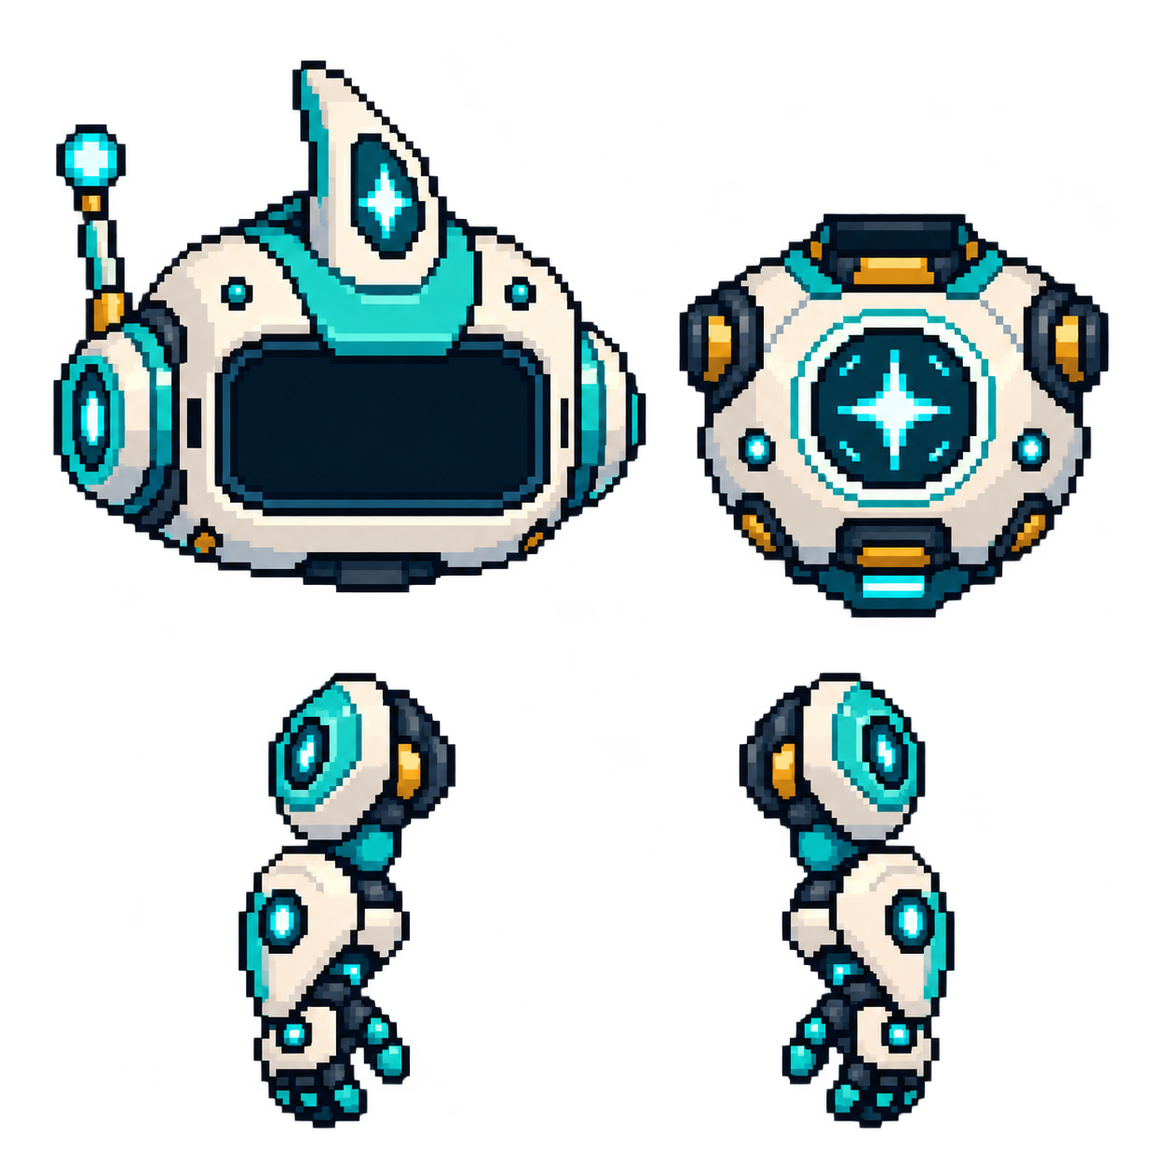
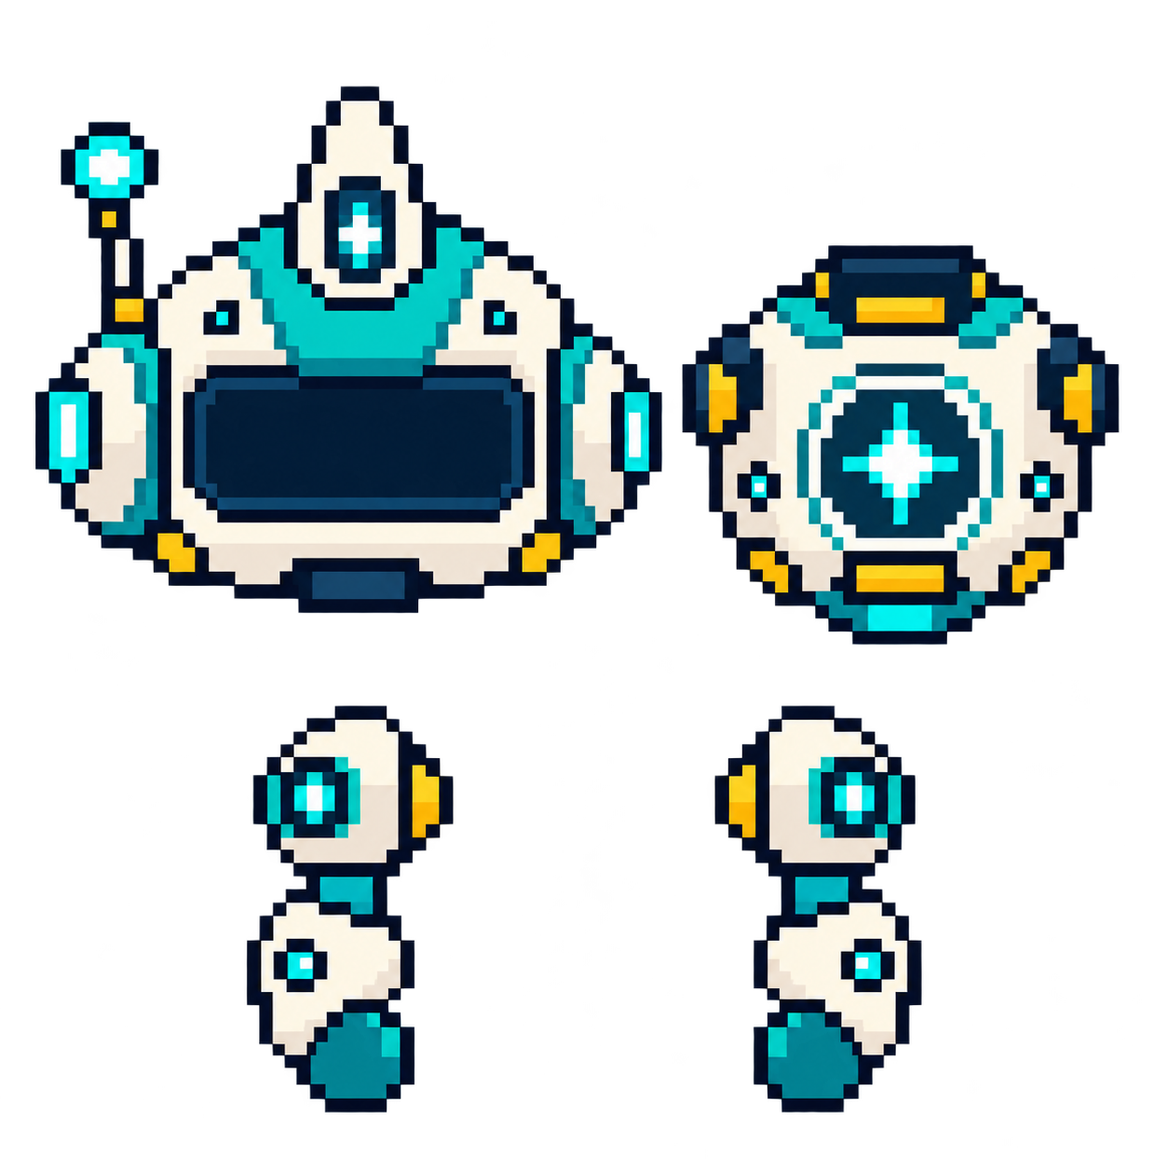
Simplify and enlarge the terminal scout for v1.12.34
Use a low-resolution, flat-palette front-facing scout with solid mitten hands. Enlarge his head and tuck the lower chest and resting arms behind the terminal; raise the hands during expressive poses and turn sideways only in selected animations.

Validated 153 unit tests, release/build checks, full Chromium and WebKit browser/PWA suites, nine camera layouts, reduced motion, terminal events and in-game sleeping/resting/raised-hand screenshots.

diff --git a/src/ui/terminal-companion.js b/src/ui/terminal-companion.js
@@ -1,19 +1,30 @@
 import {viewport,gameRect} from '../core/viewport.js';
 import {cameraAreas} from './camera-layout.js';
-import {createCompanionBrain,companionPlacement} from './companion-state.js';
+import {createCompanionBrain,companionPlacement,companionMotion} from './companion-state.js';
 export {reactionForMessage} from './companion-state.js';
 
-// Measured alpha bounds of the generated atlas, in its native 1254px square.
-const regions={head:[57,65,637,571],chest:[729,229,462,434],left:[256,722,233,490],right:[793,722,232,490]};
+// Measured alpha bounds of the simplified, front-facing 1254px atlas.
+const regions={head:[38,92,673,567],chest:[732,263,470,429],left:[265,757,222,438],right:[767,757,223,438]};
+const palette=['06131e','173440','355a65','71949b','b6c5bb','f4f2dc','fff8e7','12525c','187c81','26b9b1','79eee0','d2fff0','886533','e2b455'].map(hex=>[0,2,4].map(i=>parseInt(hex.slice(i,i+2),16)));
 export function createTerminalCompanion({state,settings,$}){
   const stage=$('terminalCompanion'),canvas=$('companionCanvas'),ctx=canvas.getContext('2d'),brain=createCompanionBrain(),parts={};
-  let ready=false,lastPaint=-Infinity,lastPlace=-Infinity,lastPose='',lastScene=state.scene;
+  const face=document.createElement('canvas');face.width=52;face.height=44;const faceContext=face.getContext('2d');
+  let ready=false,lastPaint=-Infinity,lastPlace=-Infinity,lastPose='',lastScene=state.scene,armLift=0,headTurn=0;
   const reducedMotion=matchMedia('(prefers-reduced-motion: reduce)');
   const image=new Image();image.src=new URL('../../assets/terminal-companion.png',import.meta.url).href;
   image.onload=()=>{
     for(const [name,[x,y,w,h]]of Object.entries(regions)){
-      const part=document.createElement('canvas');part.width=name==='head'?96:name==='chest'?50:20;part.height=Math.round(part.width*h/w);
-      const c=part.getContext('2d');c.imageSmoothingEnabled=false;c.drawImage(image,x,y,w,h,0,0,part.width,part.height);parts[name]=part;
+      const part=document.createElement('canvas');part.width=name==='head'?52:name==='chest'?26:10;part.height=Math.round(part.width*h/w);
+      const c=part.getContext('2d');c.imageSmoothingEnabled=false;c.drawImage(image,x,y,w,h,0,0,part.width,part.height);
+      // Flatten the generated artwork to a small console palette once, on load.
+      const pixels=c.getImageData(0,0,part.width,part.height),data=pixels.data;
+      for(let i=0;i<data.length;i+=4){
+        if(data[i+3]<128){data[i+3]=0;continue;}
+        let best=palette[0],distance=Infinity;
+        for(const color of palette){const d=color.reduce((sum,v,j)=>sum+(v-data[i+j])**2,0);if(d<distance){best=color;distance=d;}}
+        data.set(best,i);data[i+3]=255;
+      }
+      c.putImageData(pixels,0,0);parts[name]=part;
     }
     ready=true;stage.dataset.ready='true';update(performance.now());
   };
@@ -27,41 +38,39 @@ export function createTerminalCompanion({state,settings,$}){
   }
   const observer=new ResizeObserver(place);for(const id of ['targetCard','terminalPocket','gameViewport'])observer.observe($(id));
   function draw(pose,now){
-    ctx.clearRect(0,0,120,132);ctx.imageSmoothingEnabled=false;
-    const still=settings.reducedMotion||reducedMotion.matches;
-    const t=still?0:now/1000,bob=still?0:Math.round(Math.sin(t*(pose==='sleep'?1.6:2.2)));
-    const wave=['wake','greet','celebrate','complete','stretch'].includes(pose),speed=pose==='celebrate'?9:4;
-    // Integer offsets keep the small pixel sprite crisp. Body and hands reveal
-    // beneath the head as the terminal rises; the closed stage clips them out.
-    ctx.drawImage(parts.chest,35,79+bob);
-    const arm=(name,x,angle)=>{ctx.save();ctx.translate(x,86+bob);ctx.rotate(angle);ctx.drawImage(parts[name],-10,0);ctx.restore();};
-    arm('left',30,wave?(still?-.2:-.3+Math.sin(t*speed)*.25):0);
-    arm('right',90,wave?(still?.2:.3-Math.sin(t*speed)*.25):0);
-    const headY=bob+(pose==='sleep'?-8:pose==='input'?Math.round(Math.sin(t*5)):0);
-    ctx.drawImage(parts.head,12,headY);
-    // Visor occupies x37..89, y48..70 on the downsampled head.
-    const cyan=pose==='concern'?'#ffd27b':'#8efff4',dark='#031321';
-    const eyeY=52+headY,shift=pose==='glance'?Math.round(Math.sin(t*2)*3):pose==='scan'?Math.round(Math.sin(t*4)*2):0;
-    ctx.fillStyle=cyan;
+    ctx.clearRect(0,0,64,72);ctx.imageSmoothingEnabled=false;
+    const still=settings.reducedMotion||reducedMotion.matches,{bob,turn,lift}=companionMotion(pose,now,still),t=still?0:now/1000;
+    // Ease arm raises and occasional head turns without ever smoothing pixels.
+    const ease=still?1:1-Math.exp(-Math.max(0,Math.min(100,now-lastPaint))/120);
+    armLift+=(lift-armLift)*ease;headTurn+=(turn-headTurn)*ease;
+    const raised=Math.round(armLift),yaw=Math.round(headTurn),headY=bob+(pose==='sleep'?-10:0);
+    ctx.drawImage(parts.chest,19,40+bob);
+    const arms=()=>{ctx.drawImage(parts.left,8-Math.round(raised/4),43+bob-raised);ctx.drawImage(parts.right,46+Math.round(raised/4),43+bob-raised);};
+    if(!raised)arms();
+    // This mild yaw is reserved for scanning/travel/glances; the default is a
+    // symmetric front view. Draw the visor in the same head coordinate space.
+    const f=faceContext;f.clearRect(0,0,52,44);f.drawImage(parts.head,0,0);
+    const cyan=pose==='concern'?'#e2b455':'#79eee0',eyeY=27;f.fillStyle=cyan;
     if(pose==='sleep'||pose==='blink'){
-      for(const x of [44,70]){ctx.fillRect(x,eyeY,12,2);if(pose==='sleep')ctx.fillRect(x+2,eyeY+2,8,1);}
+      for(const x of [17,32]){f.fillRect(x,eyeY,6,1);if(pose==='sleep')f.fillRect(x+1,eyeY+1,4,1);}
     }else if(['celebrate','complete','greet'].includes(pose)){
-      for(const x of [44,70]){ctx.fillRect(x,eyeY+3,3,3);ctx.fillRect(x+3,eyeY,6,3);ctx.fillRect(x+9,eyeY+3,3,3);}
+      for(const x of [17,32]){f.fillRect(x,eyeY+1,2,2);f.fillRect(x+2,eyeY,2,1);f.fillRect(x+4,eyeY+1,2,2);}
     }else{
-      const wide=pose==='warp'||pose==='wake',h=wide?13:pose==='concern'?5:10;
-      for(const x of [46,72]){ctx.fillRect(x+shift,eyeY,8,h);ctx.fillRect(x+shift+2,eyeY-2,4,h+4);ctx.fillStyle='#e6fffb';ctx.fillRect(x+shift+2,eyeY,2,3);ctx.fillStyle=cyan;}
+      const h=pose==='warp'||pose==='wake'?7:pose==='concern'?3:5;
+      for(const x of [17,32]){f.fillRect(x+yaw,eyeY,6,h);f.fillRect(x+yaw+1,eyeY-1,4,1);}
     }
     if(pose!=='sleep'&&pose!=='blink'){
-      const mouthY=70+headY;ctx.fillStyle=cyan;
-      if(pose==='warp'){ctx.fillRect(60,mouthY-3,7,6);ctx.fillStyle=dark;ctx.fillRect(62,mouthY-1,3,2);}
-      else if(pose==='concern'){ctx.fillRect(56,mouthY,4,2);ctx.fillRect(60,mouthY-2,8,2);ctx.fillRect(68,mouthY,4,2);}
-      else if(pose==='input'||pose==='scan'){ctx.fillRect(56,mouthY,14,2+Math.round((Math.sin(t*10)+1)*1.5));}
-      else{ctx.fillRect(57,mouthY-2,3,2);ctx.fillRect(60,mouthY,8,2);ctx.fillRect(68,mouthY-2,3,2);}
+      if(pose==='warp'){f.fillRect(25,34,4,3);f.fillStyle='#06131e';f.fillRect(26,35,2,1);}
+      else if(pose==='concern'){f.fillRect(23,35,2,1);f.fillRect(25,34,4,1);f.fillRect(29,35,2,1);}
+      else if(pose==='input'||pose==='scan'){f.fillRect(23,34,8,1+Math.round((Math.sin(t*10)+1)/2));}
+      else{f.fillRect(23,33,2,1);f.fillRect(25,34,4,1);f.fillRect(29,33,2,1);}
     }
-    if(pose==='sleep'&&!still&&now%7500>5000){ctx.fillStyle='#68c2c2';ctx.fillRect(101,13,6,1);ctx.fillRect(105,14,2,1);ctx.fillRect(103,15,2,1);ctx.fillRect(101,16,6,1);}
-    if(pose==='travel'||pose==='warp'){ctx.fillStyle='#77fff0';ctx.fillRect(52,126,16,2);if(!still)ctx.fillRect(56,128,8,now%160<80?3:1);}
-    if(pose==='clear'){ctx.fillStyle='#8efff4';ctx.fillRect(33,Math.round(94+Math.sin(t*4)*13),54,2);}
-    if(pose==='celebrate'&&!still){ctx.fillStyle='#ffd27b';for(let i=0;i<3;i++)ctx.fillRect(8+i*49,20+Math.round((t*12+i*18)%45),2,2);}
+    ctx.drawImage(face,6+yaw,headY,52-Math.abs(yaw),44);
+    if(raised)arms();
+    if(pose==='sleep'&&!still&&now%7500>5000){ctx.fillStyle='#71949b';ctx.fillRect(58,5,4,1);ctx.fillRect(60,6,1,1);ctx.fillRect(59,7,1,1);ctx.fillRect(58,8,4,1);}
+    if(pose==='travel'||pose==='warp'){ctx.fillStyle='#79eee0';ctx.fillRect(23,49,18,1);if(!still)ctx.fillRect(29,50,6,now%160<80?2:1);}
+    if(pose==='clear'){ctx.fillStyle='#79eee0';ctx.fillRect(18,Math.round(44+Math.sin(t*4)*3),28,1);}
+    if(pose==='celebrate'&&!still){ctx.fillStyle='#e2b455';for(let i=0;i<3;i++)ctx.fillRect(2+i*29,8+Math.round((t*6+i*9)%26),1,1);}
   }
   function update(now){
     const blocked=document.hidden||!state.save||state.scene==='menu'||state.journalOpen||$('modal').classList.contains('visible')||$('systemChart').classList.contains('open')||$('targetCard').hidden;
@@ -69,7 +78,8 @@ export function createTerminalCompanion({state,settings,$}){
     if(stage.hidden){lastPose='';return;}
     if(state.scene!==lastScene){brain.react('greet',now);lastScene=state.scene;}
     stage.dataset.pose=state.terminalExpanded?'awake':'sleep';stage.dataset.emote=pose;
-    if(now-lastPlace>=100||pose!==lastPose){place();lastPlace=now;}if(now-lastPaint>=50||pose!==lastPose){draw(pose,now);lastPaint=now;lastPose=pose;}
+    if(now-lastPlace>=100||pose!==lastPose){place();lastPlace=now;}
+    if(now-lastPaint>=50||pose!==lastPose){draw(pose,now);lastPaint=now;lastPose=pose;}
   }
   return {update,react:(kind)=>{const now=performance.now();brain.react(kind,now);update(now);},place};
 }

diff --git a/sw.js b/sw.js
@@ -1,4 +1,4 @@
-const CACHE='spacebitz-field-v1.12.33';
+const CACHE='spacebitz-field-v1.12.34';
 const SHELL=['./','./index.html','./src/core/audio.js','./src/core/pwa.js','./src/core/scale.js','./src/core/settings.js','./src/core/viewport.js','./src/flight/flight-drive.js','./src/flight/flight-state.js','./src/flight/motion.js','./src/flight/navigation.js','./src/generated/changelog.js','./src/journal/log-device.js','./src/journal/log-objects.js','./src/journal/log-preview.js','./src/journal/voyage-log.js','./src/main.js','./src/rendering/body-cache.js','./src/rendering/celestial.js','./src/rendering/giants.js','./src/rendering/presentation.js','./src/rendering/rendering.js','./src/rendering/sprites.js','./src/rendering/stellar.js','./src/rendering/substellar.js','./src/rendering/terrain.js','./src/rendering/weather.js','./src/storage/saves.js','./src/storage/voyage-database.js','./src/storage/voyage-storage.js','./src/terminal/terminal-device.js','./src/terminal/terminal-history.js','./src/terminal/terminal.js','./src/ui/camera-layout.js','./src/ui/companion-state.js','./src/ui/edge-scrollbar.js','./src/ui/hud.js','./src/ui/interface-fonts.js','./src/ui/rarity-ui.js','./src/ui/target-ui.js','./src/ui/terminal-companion.js','./src/ui/touch-buttons.js','./src/universe/body-classification.js','./src/universe/exploration.js','./src/universe/legacy/universe-v2.js','./src/universe/model.js','./src/universe/star-info.js','./src/universe/universe.js','./styles/base.css','./styles/companion.css','./styles/devices.css','./styles/flight.css','./styles/index.css','./styles/layout.css','./styles/terminal.css','./assets/spacebitz-pixel.woff','./assets/spacebitz-title.svg','./assets/terminal-companion.png','./manifest.webmanifest','./icons/icon.svg','./icons/icon-192.png','./icons/icon-512.png'];
 self.addEventListener('install',event=>{
   event.waitUntil(caches.open(CACHE).then(cache=>cache.addAll(SHELL.map(path=>new Request(path,{cache:'reload'})))));

diff --git a/src/ui/companion-state.js b/src/ui/companion-state.js
@@ -29,8 +29,10 @@ export function createCompanionBrain(){
   };
 }
 export function companionPlacement(card,pocket,view,areas=[],obstacles=[],open=false){
-  const anchor=Math.max(card.y,pocket.y),height=open?Math.max(8,Math.min(124,card.y-6)):Math.min(40,Math.max(8,card.y-6));
-  const width=open?height*120/132:100;
+  // Only the top 52 of 72 sprite rows are exposed when awake; relaxed hands
+  // and the lower torso stay behind the terminal. Sleep exposes half the head.
+  const anchor=Math.max(card.y,pocket.y),height=open?Math.max(8,Math.min(116,card.y-6)):Math.min(42,Math.max(8,card.y-6));
+  const width=open?height*64/52:132;
   const clamp=x=>Math.max(6,Math.min(view.width-width-6,x));
   const top=anchor-height,center=card.x+(card.width-width)/2;
   const overlap=(x,o,pad=0)=>x<o.x+o.width+pad&&x+width>o.x-pad&&top<o.y+o.height+pad&&anchor>o.y-pad;
@@ -38,4 +40,12 @@ export function companionPlacement(card,pocket,view,areas=[],obstacles=[],open=f
   const candidates=[center,...areas.filter(a=>overlap(center,a,4)).flatMap(a=>[a.x-width-4,a.x+a.width+4]),card.x+6,card.x+card.width-width-6].map(clamp);
   const x=candidates.find(x=>!areas.some(o=>overlap(x,o,4))&&!obstacles.some(o=>overlap(x,o)))??clamp(card.x+6);
   return {x,y:anchor,width,height};
+}
+export function companionMotion(pose,now,reduced=false){
+  if(reduced)return {bob:0,turn:0,lift:0};
+  const t=now/1000;
+  // Idle, listening and expressive reactions address the player head-on.
+  const turn=['glance','scan','travel'].includes(pose)?Math.round(Math.sin(t*(pose==='scan'?3:1.8))*2):0;
+  const raised=['wake','greet','celebrate','complete','stretch'].includes(pose);
+  return {bob:Math.round(Math.sin(t*(pose==='sleep'?1.6:2.2))),turn,lift:raised?20+Math.round(Math.sin(t*(pose==='celebrate'?9:4))*2):0};
 }

diff --git a/tests/companion.test.js b/tests/companion.test.js
@@ -1,6 +1,6 @@
 import test from 'node:test';
 import assert from 'node:assert/strict';
-import {createCompanionBrain,reactionForMessage,companionPlacement} from '../src/ui/companion-state.js';
+import {createCompanionBrain,reactionForMessage,companionPlacement,companionMotion} from '../src/ui/companion-state.js';
 const state=()=>({save:{},scene:'system',selected:{id:'earth'},terminalExpanded:false});
 test('docked companion stays asleep through action events and wakes only with terminal',()=>{
   const brain=createCompanionBrain(),s=state();brain.react('concern',0);assert.equal(brain.update(s,20),'sleep');
@@ -21,4 +21,13 @@ test('companion sits above terminal and clear of right camera in compact and ope
     assert.ok(p.x>=6&&p.x+p.width<=838&&p.y-p.height>=6);assert.ok(p.x+p.width<=camera.x||p.y<=camera.y||p.y-p.height>=camera.y+camera.height);assert.equal(p.y,card.y);
   }
   const tiny={x:400,y:42,width:200};const p=companionPlacement(tiny,tiny,{width:667,height:375},[],[],true);assert.equal(p.height,36);assert.equal(p.y-p.height,6);
+});
+
+test('default poses face forward, selective turns and arm raises stop with reduced motion',()=>{
+  for(const pose of ['idle','sleep','input','wake','greet','celebrate','complete','concern','clear','stretch','warp']){
+    for(const now of [250,1000,1400,4200])assert.equal(companionMotion(pose,now).turn,0,pose);
+  }
+  for(const pose of ['glance','scan','travel'])assert.ok([250,500,1000,1400].some(now=>companionMotion(pose,now).turn!==0),pose);
+  assert.equal(companionMotion('idle',1000).lift,0);assert.ok(companionMotion('celebrate',1000).lift>=18);
+  assert.deepEqual(companionMotion('celebrate',1000,true),{bob:0,turn:0,lift:0});
 });

diff --git a/index.html b/index.html
@@ -106,7 +106,7 @@
     </section>
     </div>
     </div>
-    <div id="terminalCompanion" class="terminal-companion" aria-hidden="true" hidden><canvas id="companionCanvas" width="120" height="132"></canvas></div>
+    <div id="terminalCompanion" class="terminal-companion" aria-hidden="true" hidden><canvas id="companionCanvas" width="64" height="72"></canvas></div>
     <div id="contextActions" class="context-actions" hidden aria-label="Selected object name"><span id="contextName" class="context-name"></span></div>
     <div id="joystick" class="joystick" aria-label="Movement joystick" role="application"><div id="stick"></div></div>
     <div id="navigationControls" class="navigation-controls">
@@ -123,7 +123,7 @@
   <div id="welcome" class="overlay visible" role="dialog" aria-modal="true" aria-labelledby="welcomeTitle">
     <div class="welcome-card glass">
       <section id="mainMenuStage" class="menu-stage main-menu-stage">
-        <span class="version-chip main-menu-version">v1.12.33</span>
+        <span class="version-chip main-menu-version">v1.12.34</span>
         <div id="welcomeTitle" class="hero-logo" role="heading" aria-level="1" aria-label="SpaceBitz">
           <img class="hero-wordmark" src="./assets/spacebitz-title.svg" alt="" width="696" height="156" aria-hidden="true">
         </div>

diff --git a/docs/companion.md b/docs/companion.md
@@ -1,15 +1,17 @@
 # Terminal companion
 
-The white scout companion is the terminal's animated player sidekick. Open the terminal to reveal his head, chest and arms; close it with a target selected to dock him with approximately half his head visible and his eyes asleep. Clearing the target hides the docked character. Opening the chart, Log, Settings or the main menu hides him so those interfaces remain clear.
+The white scout is the terminal's animated player sidekick. His larger, straight-on head addresses the player by default. Opening the terminal reveals his head and upper chest; the lower chest and relaxed arms stay behind its border. Greetings, completed records, celebrations and stretches raise his solid mitten hands into view. Glances, scans and travel occasionally turn his head sideways. Closing the terminal with a selected target exposes approximately half his sleeping head. Clearing the target hides him. The chart, Log, Settings and main menu hide him to keep their interfaces clear.
 
-His body language reacts locally to terminal input, scanning and completed records, clearing the screen, travel and warp, arrivals, first landings, collected samples and warnings. Quiet moments include breathing, blinking, glancing and stretching. Closed-terminal reactions stay asleep. This update adds animation and body language; it does not introduce a remote AI service or change terminal commands.
+His expressions react locally to input, scanning, completed records, clearing the screen, travel, warp, arrivals, first landings, samples and warnings. Quiet moments include breathing, blinking, glancing and stretching. Closed-terminal reactions remain asleep. This adds body language without a remote AI service or changes to commands.
 
-The avatar follows the visible terminal pocket's top edge during its slide. It scales down with the space above an enlarged terminal and avoids the camera rectangles and nearby controls. It never intercepts input. Reduced motion stops breathing, waving, thruster pulses, sparkles and the reveal transition while keeping readable expressions. The raster atlas is downsampled once to small canvas parts and animated at no more than 20 painted frames per second.
+The renderer has a native **64 × 72 pixel** canvas. The head is 52 × 44, chest 26 × 24 and each arm 10 × 20. The atlas is downsampled once with nearest-neighbor sampling, binary alpha and a fourteen-color palette. Expressions use that palette; all final drawing coordinates are integers. Head turns stretch the already-rendered face with nearest-neighbor sampling to avoid soft fractional expression edges. Painting is capped at 20 frames per second. At rest only the top 52 rows of the awake sprite are visible; the stage clips the remaining body behind the terminal. Sleeping clips to roughly 20 rows with the eyes still visible inside the visor.
+
+The avatar follows the visible terminal pocket's top edge during its slide. It shrinks with limited space above an enlarged terminal and avoids camera rectangles and nearby controls without narrowing the game's viewport. It never intercepts input. Arm raises and turns ease toward their poses. Reduced motion stops bobbing, turning, arm raises, pulses, sparkles and the reveal transition while preserving expressions.
 
 ## Artwork
 
-`assets/terminal-companion.png` is the original transparent 1254 × 1254 output from the built-in image-generation tool, based on the user's attached white scout reference. The head, chest and two arms are separate atlas components. Their measured alpha bounds are recorded in `src/ui/terminal-companion.js`; the dark visor receives code-drawn expressions. The original PNG is preserved and precached for offline play.
+`assets/terminal-companion.png` is the unmodified transparent **1254 × 1254** output from the built-in image-generation tool in edit mode, revising the previous atlas to the user's simpler, front-facing white scout design. It has separate head, chest and arm components; the new hands are solid paddles with no fingers. Measured alpha bounds live in `src/ui/terminal-companion.js`. Code draws eyes and mouths on the blank visor. The PNG is included in the offline shell.
 
-Generation prompt:
+Exact generation prompt:
 
-> Use case: stylized-concept. Asset type: transparent production pixel-art robot sprite components for the SpaceBitz game. Reference image is CHARACTER IDENTITY AND PALETTE ONLY. Create a square 1024 x 1024 transparent PNG sprite atlas with exactly four components in a clean 2 by 2 grid, each contained entirely inside its own 512 x 512 cell with generous transparent margins. Upper left: the complete HEAD only, front-facing, centered, white/off-white rounded chunky armor, teal trim, circular side ears, the scout antenna on the left and a short white crest with cyan star on the forehead. The visor must be a wide flat dark navy rectangular screen, blank, NO eyes, eyebrows or mouth because the game draws animated expressions. Head including antenna fills about 420 x 360 centered in cell. Upper right: CHEST only, front-facing, white armored torso, teal trim, central cyan star emblem inside a dark circular core, little gold accents, cropped at waist, no head, no limbs, no legs. Lower left: LEFT ARM only with shoulder and small articulated forearm/hand, facing forward and relaxed, white armor, teal joints, small cyan light. Lower right: matching RIGHT ARM only. Every component isolated, same front-facing view, symmetrical construction, sharp square pixels on an 8 x 8 pixel grid, limited palette around 16 colors, chunky highly readable 16-bit game sprite art. NO soft edges, NO gradients, NO glow, NO 3D render, NO painted realism, NO background, NO captions, NO panel dividers, NO eyes. Preserve the white scout robot's charming iconic identity from the reference; simplify it for tiny animated gameplay display. Strict transparent alpha background.
+> Use case: style-transfer. Edit target: attached robot component atlas. Replace its highly detailed artwork with VERY SIMPLE chunky 16-bit console pixel sprites. Keep the same white scout robot identity, white armor, teal accents, cyan star emblem, side antenna, forehead crest, blank dark visor, separate head/chest/two arms and transparent background. Make the HEAD perfectly straight front-facing toward the viewer: symmetrical left and right ears, horizontal visor and cheek armor, even size on both sides, no three-quarter angle, no tilt or perspective. The crest should be short and centered. Simplify drastically to a low-resolution 52 by 40 pixel head, a 26 by 24 pixel chest, and 10 by 20 pixel arms, all shown enlarged with exact square pixels. Use 12 flat colors total, thick navy outlines, two-tone shading only, large solid blocks. No tiny mechanical details, screws, scratches, textures, dithering, gradients, shiny 3D modeling or soft edges. ARM ENDS MUST BE SOLID ROUNDED MITTEN PADDLES: no fingers, no thumbs, no articulated digits, no claws or pincers. White forearm shell, simple teal hinge, one-piece smooth mitten end. Render a square transparent sprite sheet with HEAD alone in upper-left quadrant, CHEST alone in upper-right quadrant, left arm alone lower-left and right arm alone lower-right. Components clearly separated with generous transparent spacing, all straight front-view orthographic and perfectly consistent, centered within cells, visor blank with NO eyes or mouth so game code animates them. The overall feel should be a friendly simple SNES-era character, iconic at a glance rather than a detailed illustration. This is a game production atlas, no captions, no backdrop, no dividers, no floor shadow. Actual alpha transparency.

diff --git a/CHANGELOG.md b/CHANGELOG.md
@@ -1,5 +1,9 @@
 # Changelog
 
+## 1.12.34 — Chunkier, larger scout companion
+- Simplified the white scout to a low-resolution 64 × 72 pixel renderer with a small flat palette and solid mitten hands without fingers. He now faces the player by default, turning only during occasional glances, scans and travel.
+- Increased his on-screen size and tucked his lower chest and resting arms behind the terminal. Waves, stretches and celebrations lift his arms into view, with eased movement and the existing camera clearance and reduced-motion support.
+
 ## 1.12.33 — Terminal robot companion
 - Integrated the white scout companion above the terminal. He sleeps with half his head peeking above the closed device when a target is selected, then rises to reveal his chest and arms when it opens.
 - Added pixel animations for blinking, glancing, stretching, listening, scanning, travel, warp, discoveries, warnings and clearing the screen. Keep him clear of camera areas and controls, adapt him to terminal resizing, and respect reduced motion. The artwork is included in the offline shell.
